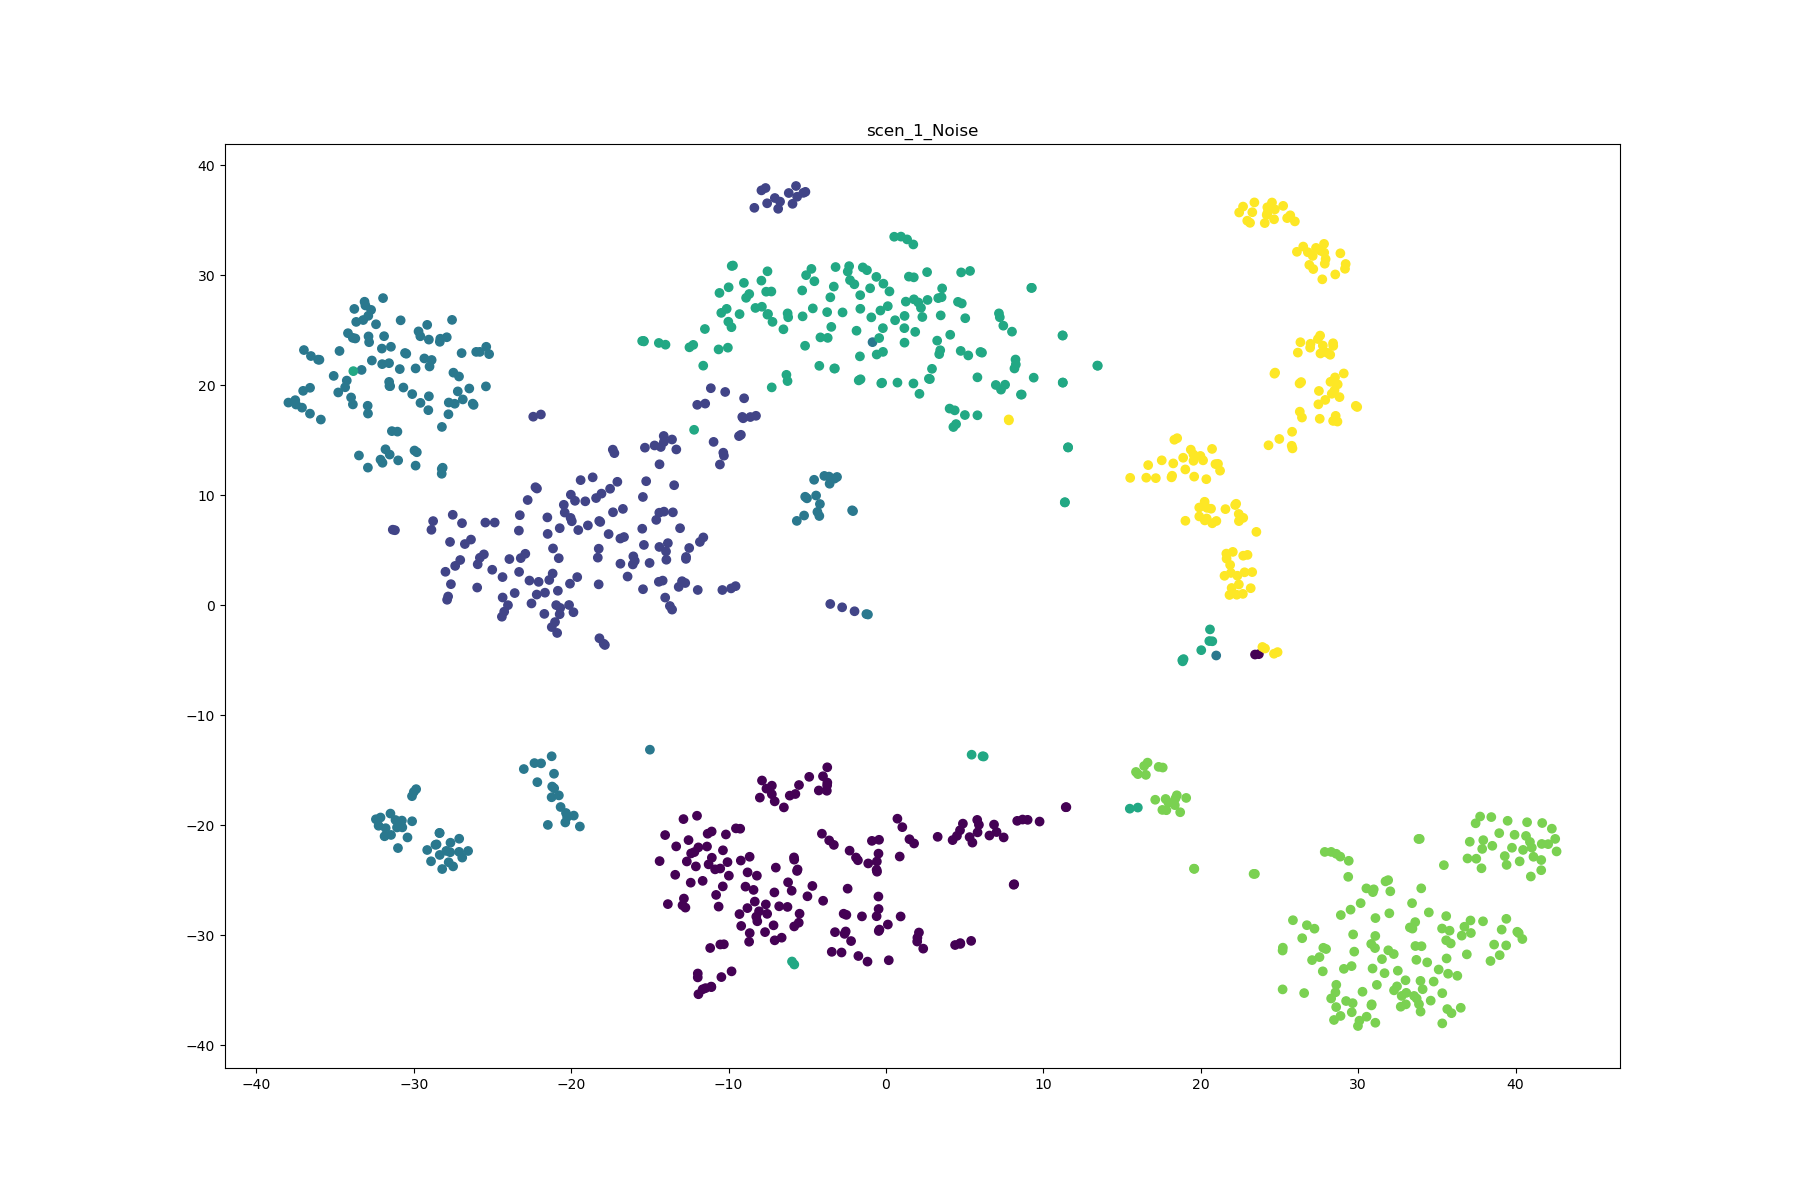
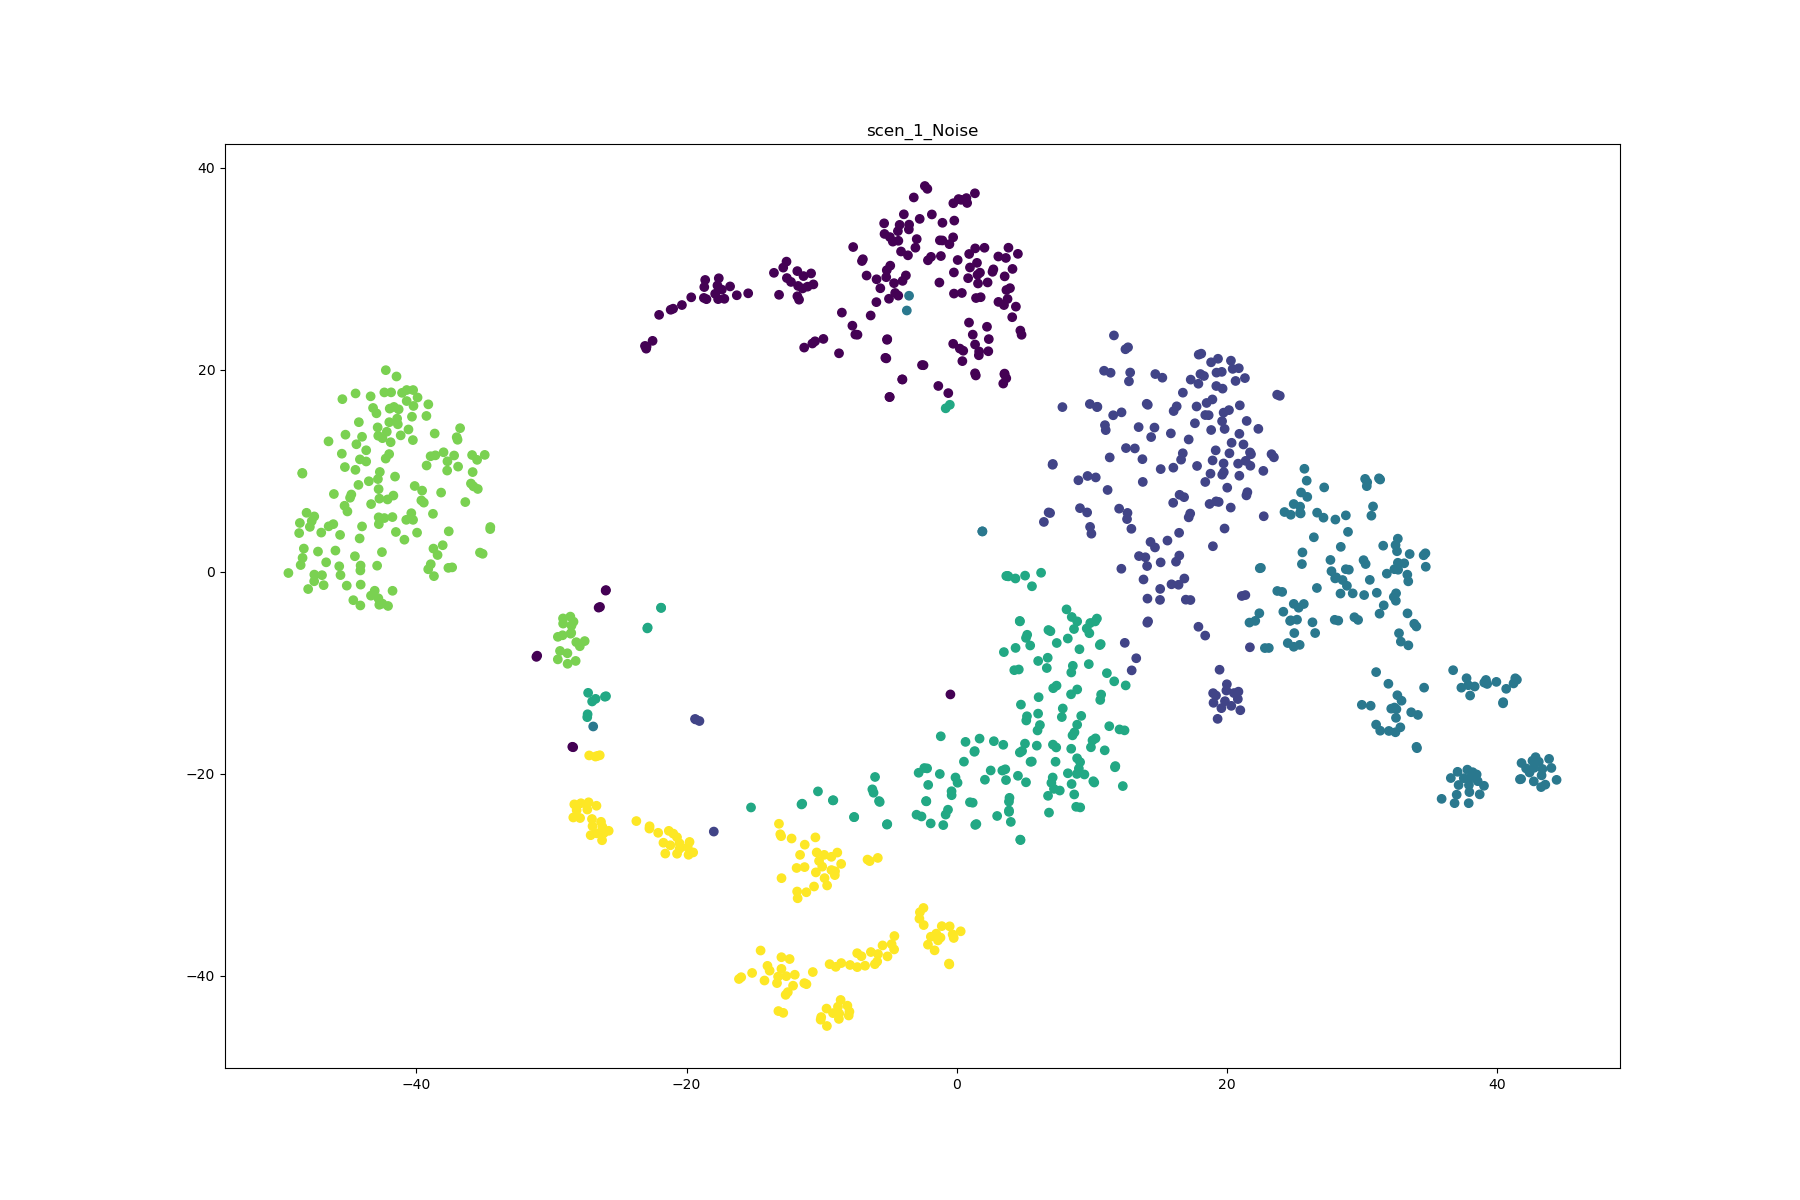
config comp with new transformations

diff --git a/experiments/MusicID/aug_comp/multi_task/plot_results.py b/experiments/MusicID/aug_comp/multi_task/plot_results.py
@@ -12,29 +12,43 @@ transformation_list=[np.array([DA_Jitter]),
                     np.array([DA_RandSampling]),
                     np.array([DA_Flip]),
                     np.array([DA_Drop]),
+                    np.array([DA_TimeWarp]),
+                    np.array([DA_Negation]),
+                    np.array([DA_ChannelShuffle]),
+                    np.array([DA_Permutation]),
                     np.array([DA_Jitter, DA_Scaling]),
                     np.array([DA_MagWarp, DA_Drop]),
                     np.array([DA_Jitter, DA_Scaling, DA_MagWarp, DA_Drop]),
-                    np.array([DA_Jitter, DA_Scaling, DA_MagWarp, DA_RandSampling, DA_Flip, DA_Drop])]
+                    np.array([DA_Jitter, DA_Scaling, DA_MagWarp, DA_RandSampling, DA_Flip, DA_Drop]),
+                    np.array([DA_Jitter, DA_Scaling, DA_MagWarp, DA_RandSampling, DA_Flip, DA_Drop, DA_TimeWarp, DA_Negation, DA_ChannelShuffle, DA_Permutation])]
                     
 #transformation_list=[np.array([DA_Jitter]),
 #                    np.array([DA_Scaling])]
 
-sigma_lst=[np.array([0.1]),
-          np.array([0.2]),
-          np.array([0.2]),
-          np.array([None]),
-          np.array([None]),
-          np.array([3]),
-          np.array([0.1,0.2]),
-          np.array([0.2,3]),
-          np.array([0.1,0.2,0.2,3]),
-          np.array([0.1, 0.2, 0.2, None, None, 3])]
-          
+sigma_lst=[np.array([0.1]), #Noise
+          np.array([0.2]), #Scaling
+          np.array([0.2]), #Magnitude Warp
+          np.array([None]), #Random Sampling
+          np.array([None]), #Flip
+          np.array([3]), #Drop
+          np.array([0.2]), #TimeWarp
+          np.array([None]), #Negation
+          np.array([None]), #Channel shuffle
+          np.array([0.1]), #Permutations
+          np.array([0.1,0.2]), #Noise,scale
+          np.array([0.2,3]), #Magnitude Warp, Drop
+          np.array([0.1,0.2,0.2,3]), #Noise,scale,Magnitude Warp, Drop
+          np.array([0.1, 0.2, 0.2, None, None, 3]), #all1 DA_Jitter, DA_Scaling, DA_MagWarp, DA_RandSampling, DA_Flip, DA_Drop
+          np.array([0.1, 0.2, 0.2, None, None, 3, 0.2, None, None, 0.1])] #all
 #sigma_lst=[np.array([0.1]),
 #          np.array([0.2])]
 
-name_list=["Noise", "Scaling", "Magnitude Warp", "Random Sampling", "Flip", "Drop","Noise,scale", "Magnitude Warp, Drop", "Noise,scale,Magnitude Warp, Drop","all"]
+name_list=["Noise", "Scaling", "Magnitude Warp", "Random Sampling", "Flip", "Drop",
+          "TimeWarp",
+          "Negation",
+          "Channel shuffle",
+          "Permutations",
+          "Noise,scale", "Magnitude Warp, Drop", "Noise,scale,Magnitude Warp, Drop","all_0", "all_1"]
 #name_list=["Noise", "Scaling"]
 
 model_name="musicid_aug_comp_multi task"

diff --git a/experiments/MusicID/aug_comp/multi_task/transformations.py b/experiments/MusicID/aug_comp/multi_task/transformations.py
@@ -55,7 +55,7 @@ def DA_Rotation(X,sigma=0):
     angle = np.random.uniform(low=-np.pi, high=np.pi)
     return np.matmul(X , axangle2mat(axis,angle))
 
-def DA_Permutation(X, nPerm=4, minSegLength=10, sigma=0):
+def DA_Permutation(X, nPerm=1, minSegLength=10, sigma=0):
     X_new = np.zeros(X.shape)
     idx = np.random.permutation(nPerm)
     bWhile = True
